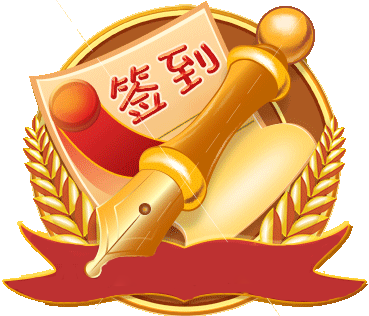
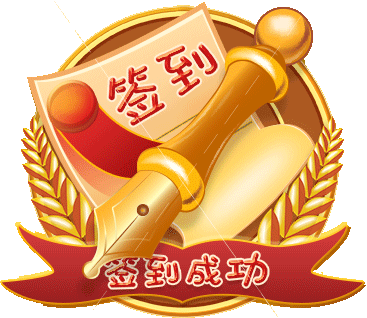
添加签到

diff --git a/src/layouts/basic.vue b/src/layouts/basic.vue
@@ -33,22 +33,27 @@
         </div>
 
         <div class="flex-center">
-          <a-popover title="" v-if="checked">
-            <template #content>
-              <span style="font-weight: bold"
-                >您已连续签到{{ checkInDays }}天，继续努力吧！</span
-              >
-            </template>
-            <img src="@/assets/checked.png" class="check-in" />
-          </a-popover>
-          <img
-            src="@/assets/checkIn.png"
-            alt="点击签到"
-            class="check-in"
-            style="cursor: pointer"
-            @click="checkIn"
-            v-else
-          />
+          <template v-if="alreadyLogin">
+            <a-popover title="" v-if="checked">
+              <template #content>
+                <span style="font-weight: bold"
+                  >您已连续签到{{ checkInDays }}天，继续努力吧！</span
+                >
+              </template>
+              <img src="@/assets/checked.png" class="check-in" />
+            </a-popover>
+            <a-popover title="" v-else>
+              <template #content>点击签到！</template>
+              <img
+                src="@/assets/checkIn.png"
+                alt="点击签到"
+                class="check-in"
+                style="cursor: pointer"
+                @click="handleCheckIn"
+              />
+            </a-popover>
+          </template>
+
           <a-menu mode="horizontal ">
             <a-menu-item key="forum" @click="gotoForum">学习圈</a-menu-item>
             <a-menu-item key="publish" @click="publish">发布文章</a-menu-item>
@@ -114,7 +119,7 @@
 <script setup lang="ts">
 import { computed, inject } from "vue";
 import { UserOutlined } from "@ant-design/icons-vue";
-import { getTags } from "@/request/apis";
+import { getTags, checkIn } from "@/request/apis";
 import { redirectToLogin } from "@utils/index";
 import { myStore } from "@/store";
 import { handleLogout } from "@/utils";
@@ -126,9 +131,20 @@ const store = myStore();
 const router = useRouter();
 const route = useRoute();
 
+const alreadyLogin = computed(() => store.state.alreadyLogin);
 const checked = computed(() => store.state.userInfo?.isSign);
 const checkInDays = computed(() => store.state.userInfo?.continuesDays);
-const checkIn = () => {};
+const handleCheckIn = () => {
+  checkIn(store.state.userInfo?.account as string).then(() => {
+    store.commit("modify", {
+      userInfo: {
+        ...store.state.userInfo,
+        isSign: true,
+        continuesDays: (store.state.userInfo?.continuesDays || 0) + 1,
+      },
+    });
+  });
+};
 
 if (!store.state.tags?.length) {
   getTags().then(([res]) => {

diff --git a/src/router/index.ts b/src/router/index.ts
@@ -115,20 +115,19 @@ router.beforeEach((to, from) => {
   }
   pendingRequests.clear();
 
-  // FIXME
-  // if (to.fullPath.includes("menu") && store.state.role == ROLE.user) {
-  //   return false;
-  // } else if (
-  //   to.fullPath.includes("sensitive") &&
-  //   store.state.role !== ROLE.super
-  // ) {
-  //   return false;
-  // }
+  if (to.fullPath.includes("menu") && store.state.role == ROLE.user) {
+    return false;
+  } else if (
+    to.fullPath.includes("sensitive") &&
+    store.state.role !== ROLE.super
+  ) {
+    return false;
+  }
 
-  // if (to.meta.needLogin && !store.state.alreadyLogin) {
-  //   message.warn("请先登录！");
-  //   router.push(`/login?redirect=${to.fullPath}`);
-  // }
+  if (to.meta.needLogin && !store.state.alreadyLogin) {
+    message.warn("请先登录！");
+    router.push(`/login?redirect=${to.fullPath}`);
+  }
 });
 
 router.afterEach((to, from) => {

diff --git a/src/components/NoticeList.vue b/src/components/NoticeList.vue
@@ -5,7 +5,6 @@
     :data-source="listData"
     style="padding: 0 0 20px 0"
   >
-    <!-- :pagination="pagination" -->
     <template #renderItem="{ item }">
       <a-badge-ribbon
         text="有新的评论！"
@@ -62,10 +61,6 @@ import {
 import { relTime } from "@utils/index";
 
 defineProps<{ listData: INoticeData[] }>();
-
-// const pagination = reactive({
-//   total: 0,
-// });
 </script>
 
 <style scoped lang="less">

diff --git a/src/request/apis.ts b/src/request/apis.ts
@@ -92,6 +92,8 @@ const getOwnDownloadArticle = (data: IPageQuery) =>
 const downloadArticle = (id: string) =>
   http("get", "/article/downloadArticle", { file_id: id });
 
+const checkIn = (account: string) => http("post", "/user/sign", { account });
+
 export {
   getTags,
   register,
@@ -118,4 +120,5 @@ export {
   getOwnNotice,
   getOwnDownloadArticle,
   downloadArticle,
+  checkIn,
 };
